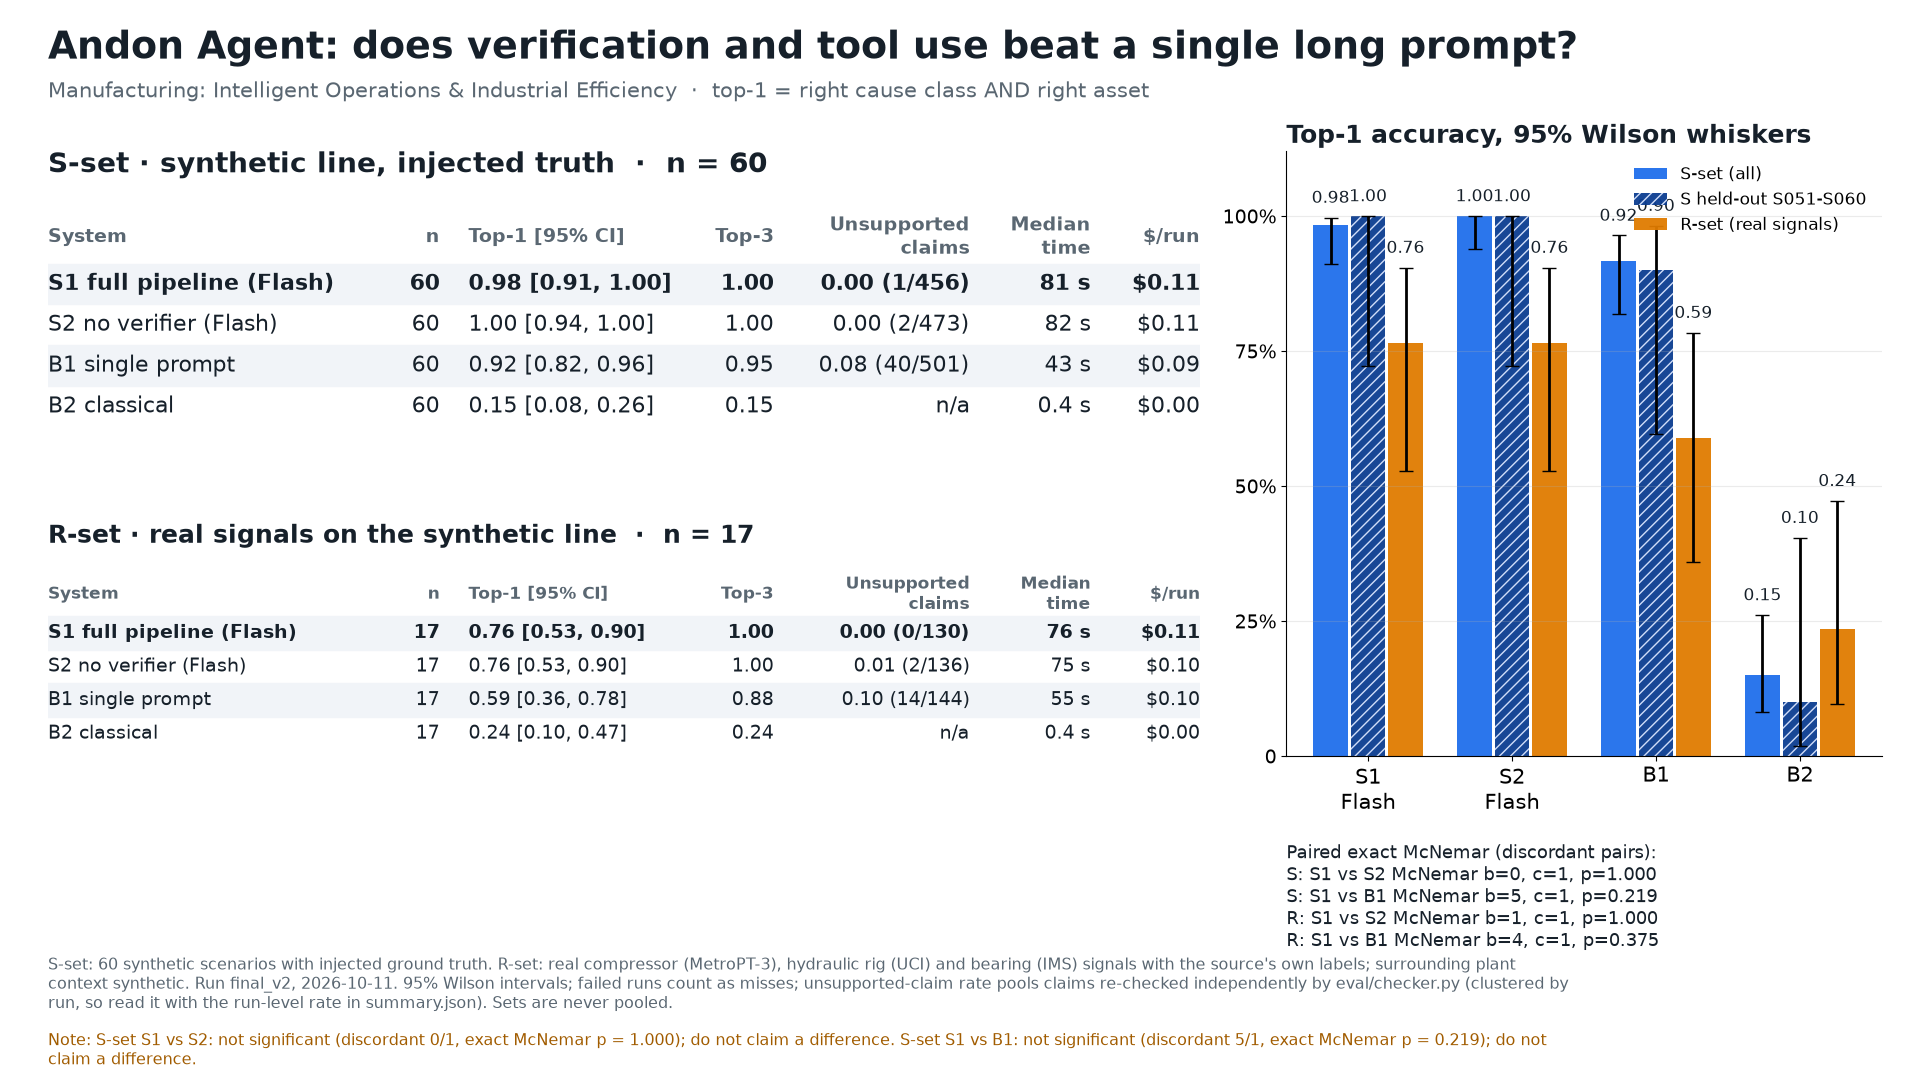
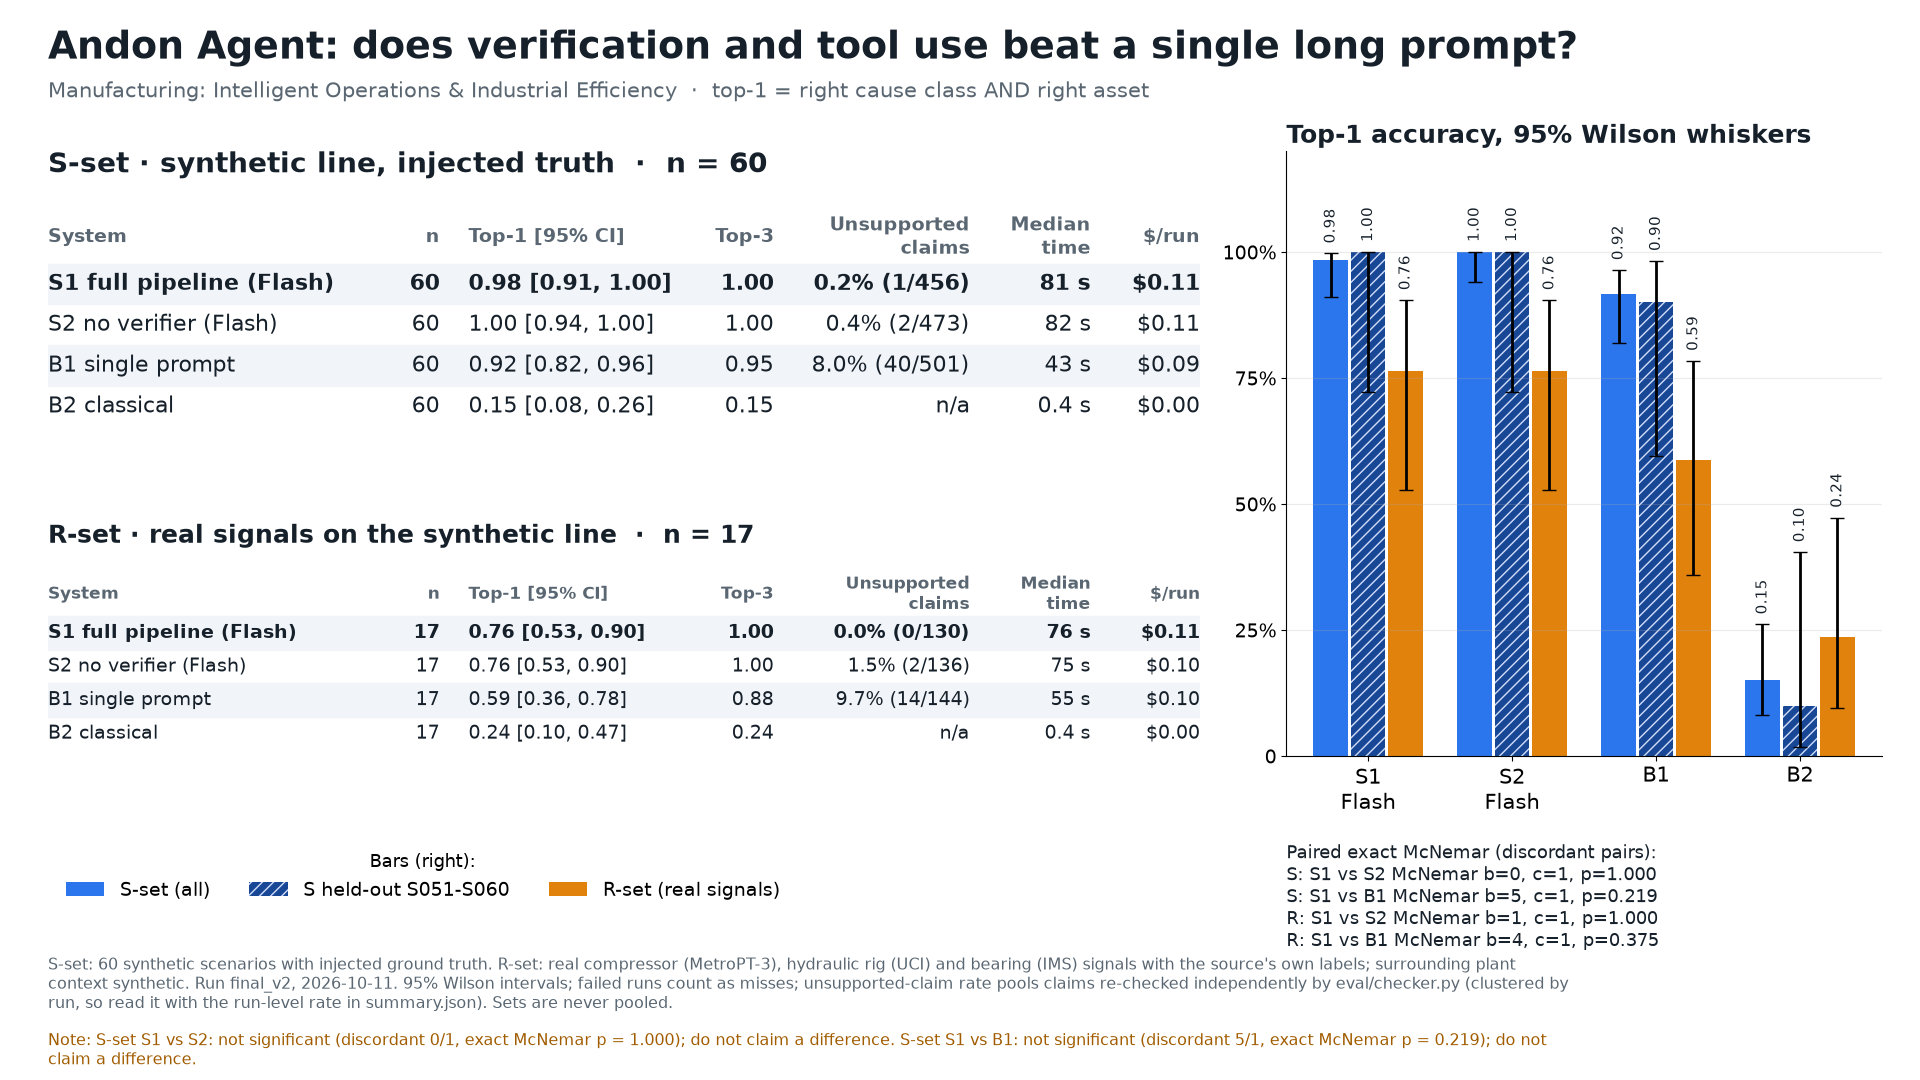
feat(eval): publish final_v2 as latest.json; slide labels rotated, legend under tables, unsupported rate in %

diff --git a/eval/report.py b/eval/report.py
@@ -461,7 +461,7 @@ def render_slide(summary: dict, path: Path) -> None:
                 )
             bold = "bold" if base_of(s) == "S1" else "normal"
             u = m["unsupported_claim_rate"]
-            unsup = "n/a" if u["n"] == 0 else f"{u['value']:.2f} ({u['k']}/{u['n']})"
+            unsup = "n/a" if u["n"] == 0 else f"{100 * u['value']:.1f}% ({u['k']}/{u['n']})"
             t = m["time_s"]["median"]
             vals = [
                 label(s, judge).replace(" judge", ""),
@@ -533,7 +533,8 @@ def render_slide(summary: dict, path: Path) -> None:
                 f"{iv['value']:.2f}",
                 ha="center",
                 va="bottom",
-                fontsize=12,
+                fontsize=11,
+                rotation=90,  # adjacent bars near 100% would otherwise print over each other
                 color=ink,
             )
     ax.set_xticks(range(len(systems)))
@@ -549,7 +550,7 @@ def render_slide(summary: dict, path: Path) -> None:
         ],
         fontsize=15,
     )
-    ax.set_ylim(0, 1.12)
+    ax.set_ylim(0, 1.2)
     ax.set_yticks([0, 0.25, 0.5, 0.75, 1.0])
     ax.set_yticklabels(["0", "25%", "50%", "75%", "100%"], fontsize=14)
     ax.set_title(
@@ -557,7 +558,10 @@ def render_slide(summary: dict, path: Path) -> None:
     )
     ax.spines[["top", "right"]].set_visible(False)
     ax.grid(axis="y", alpha=0.25)
-    ax.legend(fontsize=12, loc="upper right", frameon=False, ncol=1)
+    # one row in the free space under the tables: inside the axes it covers bars near 100%
+    handles, labels = ax.get_legend_handles_labels()
+    ax.figure.legend(handles, labels, fontsize=14, loc="lower left", bbox_to_anchor=(0.025, 0.15),
+                     frameon=False, ncol=len(labels), title="Bars (right):", title_fontsize=13)  # fmt: skip
 
     # ---- tests + footnote ----
     tests = []
